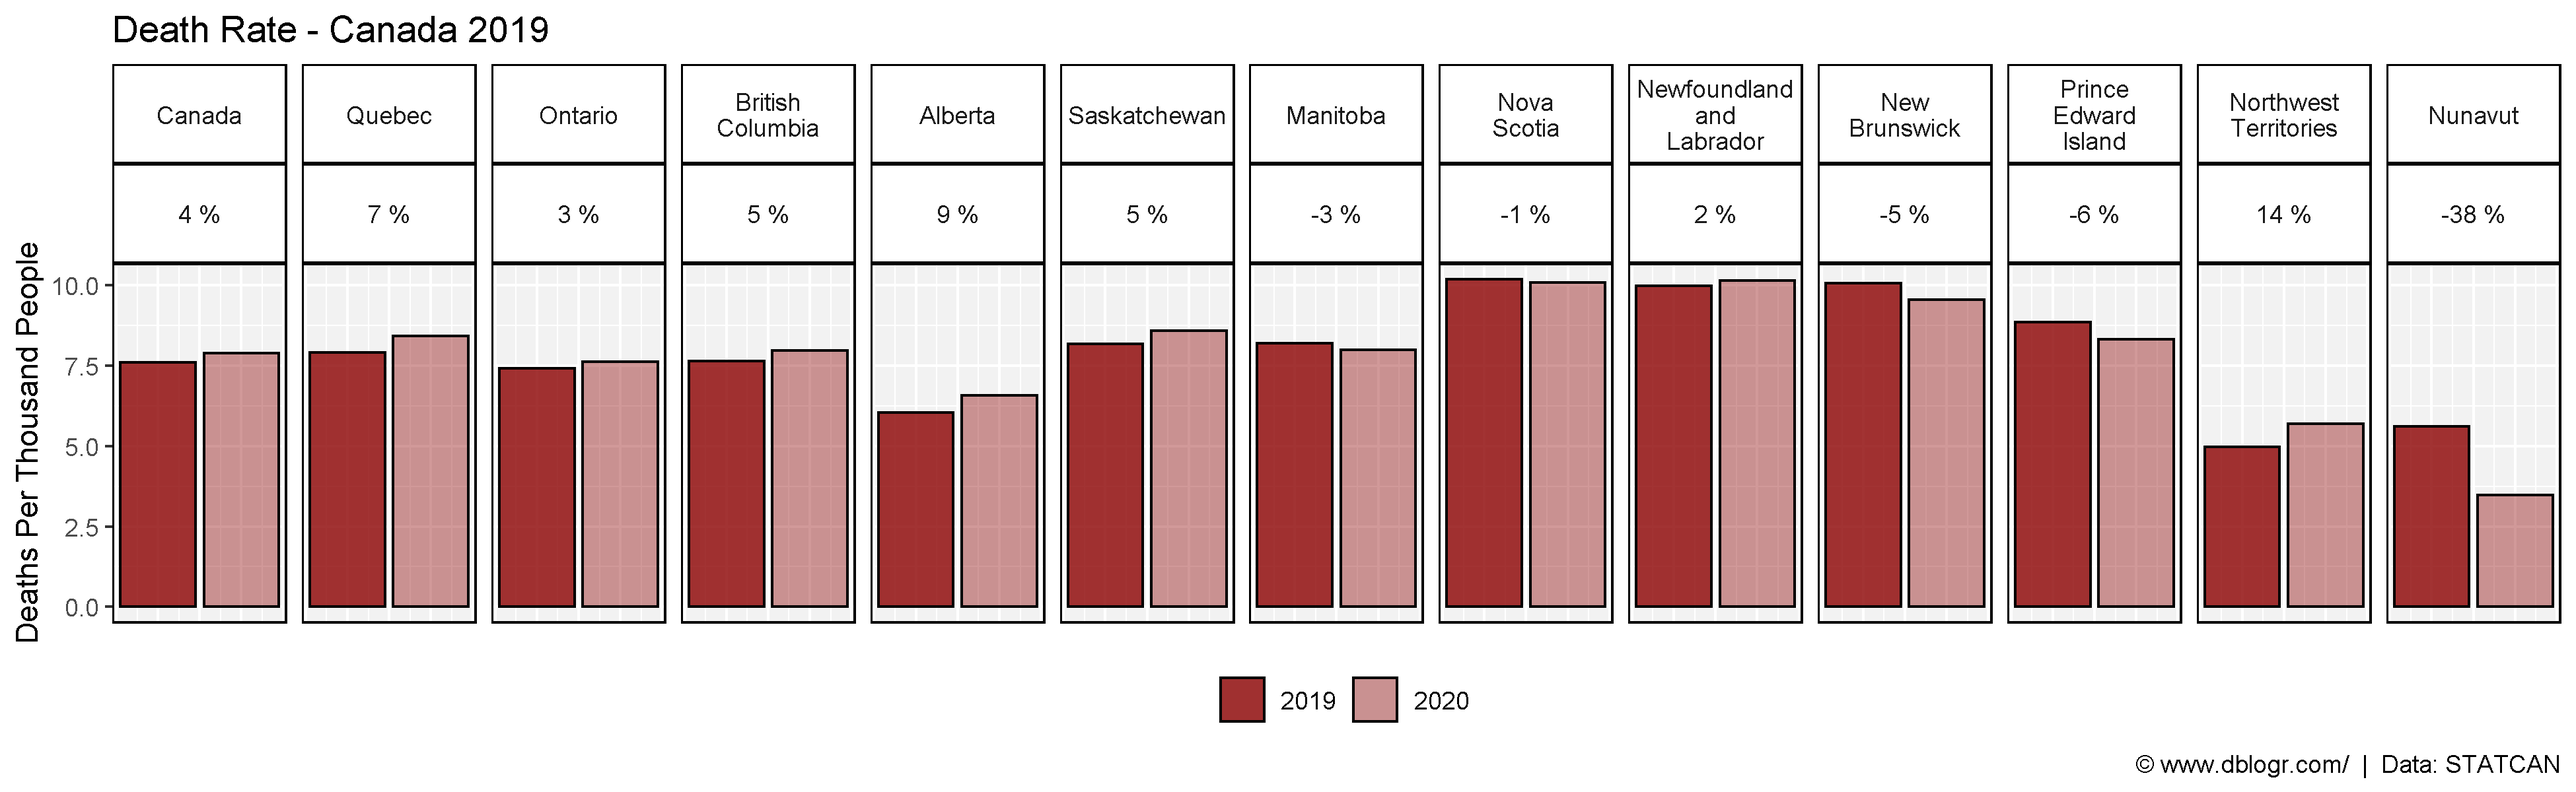
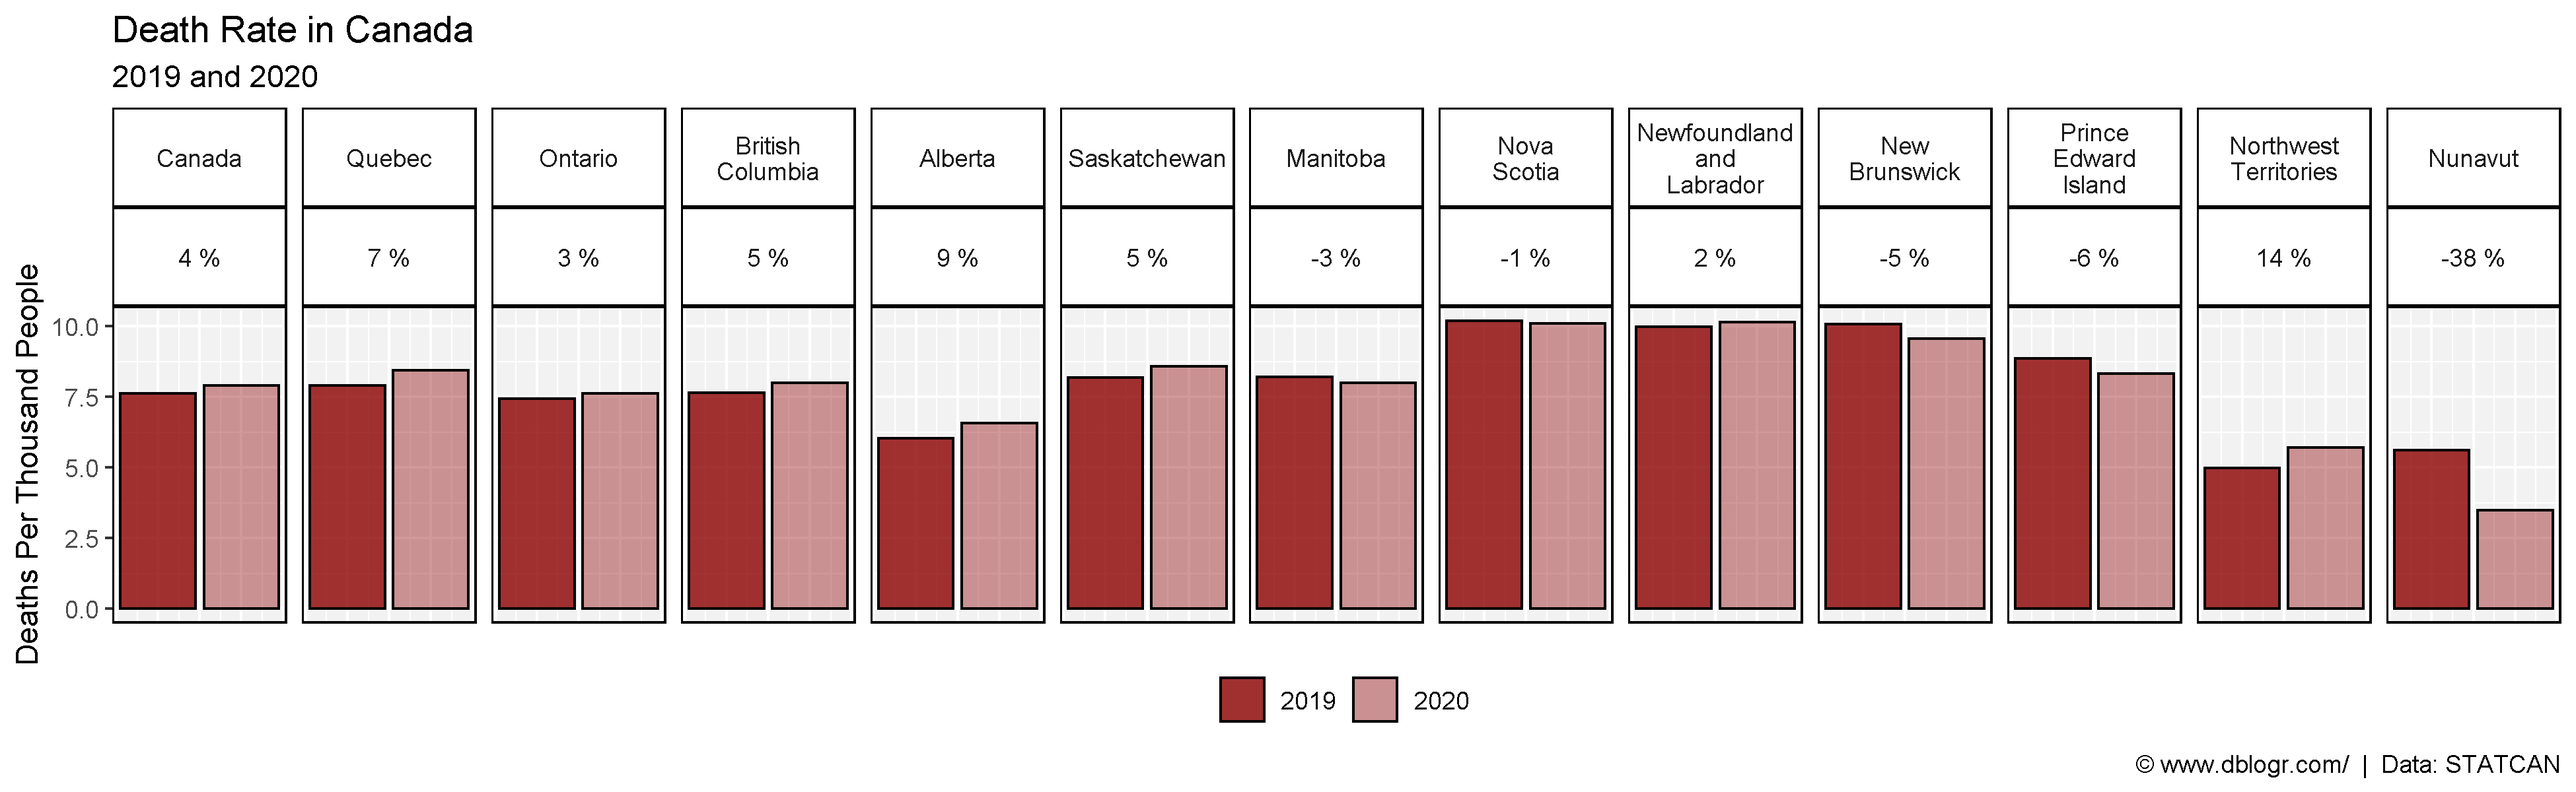
edit

diff --git a/content/dblogr/canada_deaths/index.html b/content/dblogr/canada_deaths/index.html
@@ -2,7 +2,7 @@
 title: "Deaths In Canada"
 subtitle: "An exploration of weekly deaths in Canada"
 summary:  "An exploration of weekly deaths in Canada"
-date: "2021-06-10"
+date: "2021-06-16"
 author: "Derek Michael Wright <derek.wright@usask.ca> [www.dblogr.com/](https://dblogr.com/dblogr/canada_deaths/)"
 tags: [ "dblogr", "Demographics" ]
 weight: 2
@@ -427,7 +427,8 @@ mp &lt;- ggplot(xx, aes(x = Year, y = Death.Rate, fill = factor(Year))) +
   theme_agData(legend.position = &quot;bottom&quot;,
                axis.text.x = element_blank(),
                axis.ticks.x = element_blank()) +
-  labs(title = &quot;Death Rate - Canada 2019&quot;, y = &quot;Deaths Per Thousand People&quot;, x = NULL,
+  labs(title = &quot;Death Rate in Canada&quot;,  subtitle = &quot;2019 and 2020&quot;,
+       y = &quot;Deaths Per Thousand People&quot;, x = NULL,
        caption = &quot;\xa9 www.dblogr.com/  |  Data: STATCAN&quot;)
 ggsave(&quot;canada_deaths_5_03.png&quot;, mp, width = 13, height = 4)</code></pre>
 <p><img src="canada_deaths_5_03.png" /></p>
@@ -468,7 +469,7 @@ mp &lt;- ggplot(xx, aes(x = Area, y = Value, fill = Trait)) +
                     labels = c(&quot;1991  to 2019&quot;, &quot;2019 to 2020&quot;)) +
   theme_agData(legend.position = &quot;bottom&quot;,
                axis.text.x = element_text(angle = 45, hjust = 1)) +
-  labs(title = &quot;Death Rate Change (1991 to 2019)&quot;, 
+  labs(title = &quot;Death Rate Change&quot;, 
        subtitle = &quot;Deaths per thousand people&quot;,
        y = &quot;Change&quot;, x = NULL,
        caption = &quot;\xa9 www.dblogr.com/  |  Data: STATCAN&quot;)
@@ -506,7 +507,7 @@ ggsave(&quot;canada_deaths_5_06.png&quot;, mp, width = 6, height = 4)</code></pr
   gather(Trait, Value, 2:ncol(.)) %&gt;%
   mutate(Value =gsub(&quot;,&quot;, &quot;&quot;, Value),
          Value = as.numeric(Value),
-         Covid = ifelse(Year &gt; 2019, &quot;Covid&quot;, &quot;Pre-Covid&quot;))
+         Covid = ifelse(Year %in% c(1918, 2020, 2021), &quot;Pandemic&quot;, &quot;Normal&quot;))
 xx &lt;- d4 %&gt;% filter(Trait == &quot;Death.rate..per.1.000.&quot;)
 mp &lt;- ggplot(xx, aes(x = Year, y = Value, alpha = Covid)) +
   geom_bar(stat = &quot;identity&quot;, fill = &quot;darkred&quot;, color = &quot;black&quot;, size = 0.3) +

diff --git a/content/dblogr/canada_suicide/index.html b/content/dblogr/canada_suicide/index.html
@@ -1,8 +1,8 @@
 ---
 title: "Suicide Rates in Canada"
-subtitle: ""
-summary:  ""
-date: "2021-06-14"
+subtitle: "A look at suicide data among indigenous people from a STACAN report"
+summary:  "A look at suicide data among indigenous people from a STACAN report"
+date: "2021-06-16"
 author: "Derek Michael Wright <wrightmderek@gmail.com> [www.dblogr.com/](https://dblogr.com/dblogr/canada_suicide/)"
 tags: [ "dblogr", "Economics", "Demographics" ]
 weight: 5

diff --git a/content/authors/admin/_index.md b/content/authors/admin/_index.md
@@ -15,6 +15,7 @@ email: ""
 interests:
 - <i class="fa fa-code" aria-hidden="true"></i> &nbsp; R
 - <i class="fa fa-table" aria-hidden="true"></i> &nbsp; Data analytics
+- <i class="fa fa-chart-line" aria-hidden="true"></i> &nbsp; Data visualization
 - <i class="fa fa-flask" aria-hidden="true"></i> &nbsp; Science
 - <i class="fa fa-leaf" aria-hidden="true"></i> &nbsp; Botany
 - <i class="fa fa-camera" aria-hidden="true"></i> &nbsp; Photography
